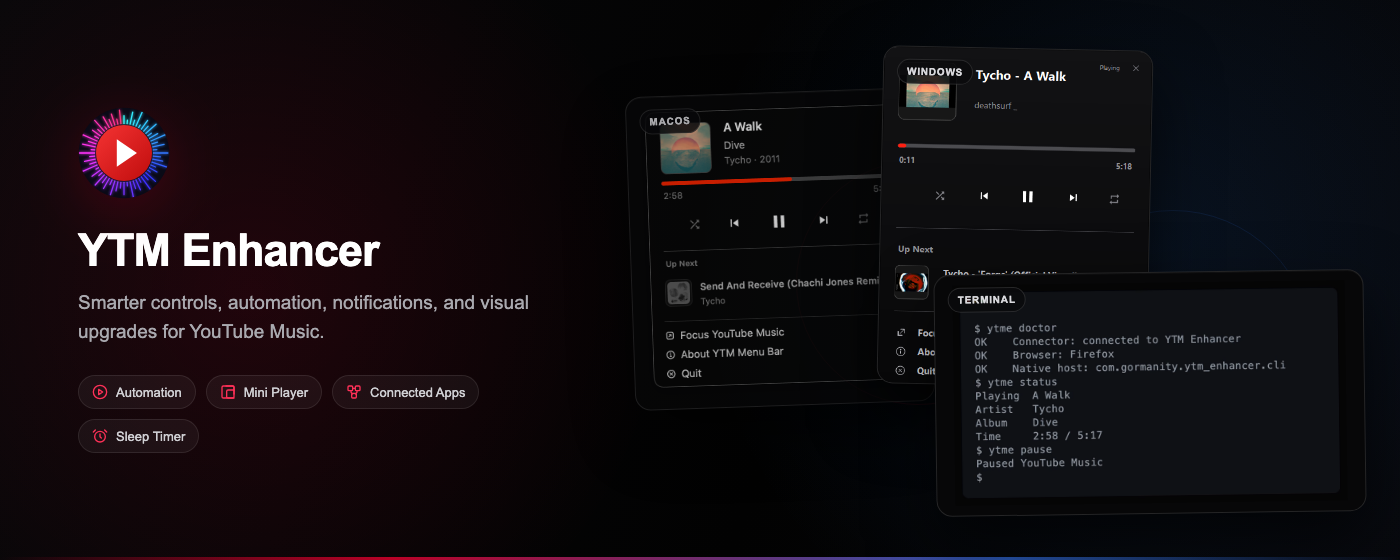
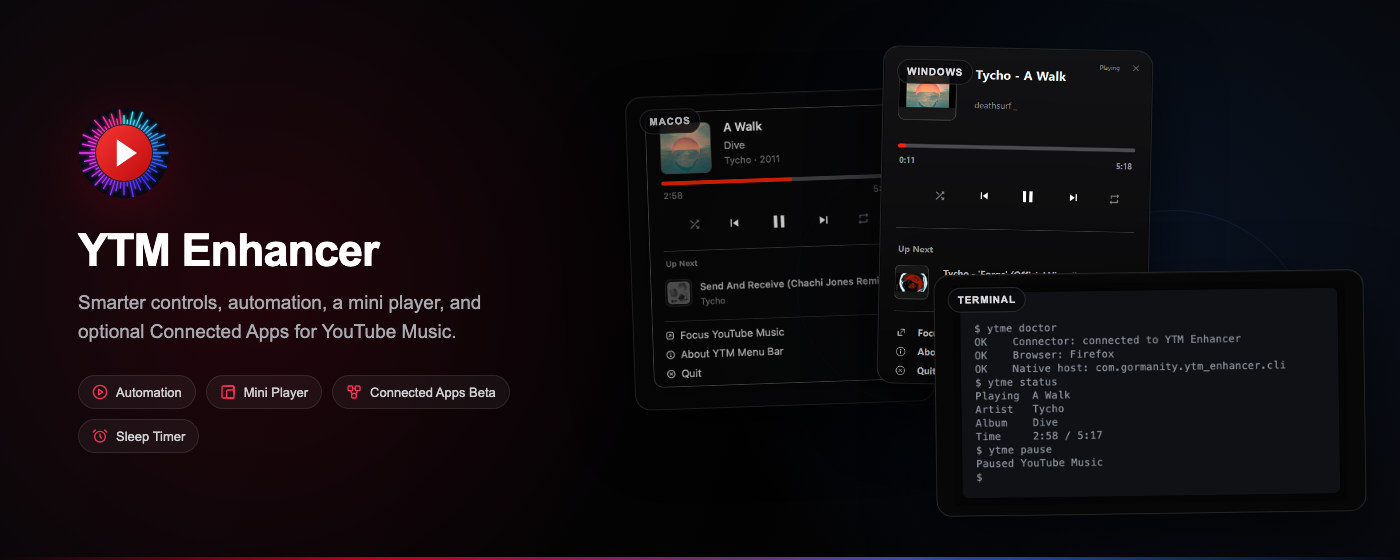
docs(store): strengthen extension marketing copy

Changed region(s): [[0.0614, 0.5161, 0.3993, 0.6071], [0.3379, 0.6982, 0.3686, 0.7286]]

diff --git a/tests/store/store-assets.test.ts b/tests/store/store-assets.test.ts
@@ -23,6 +23,32 @@ function normalizedText(element: Element): string {
 }
 
 describe("store assets", () => {
+  it("leads with concrete benefits and labels Connected Apps as beta", () => {
+    const storeCopy = read("store/STORE.md");
+    const expectedDescription =
+      "Upgrade YouTube Music with smarter controls, automation, a mini player, and optional Connected Apps (Beta).";
+    const manifestDescriptions = [
+      "src/manifests/chrome.json",
+      "src/manifests/edge.json",
+      "src/manifests/firefox.json",
+    ].map((path) => {
+      const manifest = JSON.parse(read(path)) as { description: string };
+      return manifest.description;
+    });
+
+    expect(storeCopy).toContain("Make YouTube Music work the way you listen.");
+    expect(storeCopy).toContain("Optional Connected Apps (Beta)");
+    expect(storeCopy).toContain("- Connected Apps (Beta):");
+    expect(storeCopy).toContain("no project-operated backend services");
+    expect(storeCopy).not.toContain("supercharges YouTube Music");
+    expect(storeCopy).not.toContain("best browser-based media player");
+    expect(manifestDescriptions).toEqual([
+      expectedDescription,
+      expectedDescription,
+      expectedDescription,
+    ]);
+  });
+
   it("shows the current popup navigation in the playback screenshot", () => {
     const document = new DOMParser().parseFromString(
       read("store/screenshots/01-playback-controls.html"),
@@ -46,6 +72,7 @@ describe("store assets", () => {
     expect(connectedApps).toContain(
       "Use the macOS menu bar, Windows taskbar, or your terminal.",
     );
+    expect(connectedApps).toContain("Connected Apps Beta");
     expect(connectedApps).toContain("YTM Menu Bar");
     expect(connectedApps).toContain("YTM Tray");
     expect(connectedApps).toContain("YTM Enhancer CLI");
@@ -62,7 +89,7 @@ describe("store assets", () => {
   it("features Connected Apps in the marquee without obsolete navigation", () => {
     const marquee = read("store/screenshots/promo-marquee-1400x560.html");
 
-    expect(marquee).toContain("Connected Apps");
+    expect(marquee).toContain("Connected Apps Beta");
     expect(marquee).toContain("macOS");
     expect(marquee).toContain("Windows");
     expect(marquee).toContain("Terminal");

diff --git a/store/screenshots/promo-marquee-1400x560.html b/store/screenshots/promo-marquee-1400x560.html
@@ -228,8 +228,8 @@
       />
       <h1>YTM Enhancer</h1>
       <p class="tagline">
-        Smarter controls, automation, notifications, and visual upgrades for
-        YouTube Music.
+        Smarter controls, automation, a mini player, and optional Connected Apps
+        for YouTube Music.
       </p>
       <div class="features">
         <div class="feature">
@@ -256,7 +256,7 @@
             <path d="M7.5 10v2.5l2.5 2.5" />
             <path d="M16.5 10v2.5L14 15" />
           </svg>
-          Connected Apps
+          Connected Apps Beta
         </div>
         <div class="feature">
           <svg viewBox="0 0 24 24" aria-hidden="true">
@@ -270,7 +270,7 @@
       </div>
     </section>
 
-    <section class="surfaces" aria-label="Connected Apps">
+    <section class="surfaces" aria-label="Connected Apps Beta">
       <div class="connection one"></div>
       <div class="connection two"></div>
 

diff --git a/tests/docs/connected-apps-disclosure.test.ts b/tests/docs/connected-apps-disclosure.test.ts
@@ -32,7 +32,10 @@ describe("Connected Apps release disclosures", () => {
   it("describes Connected Apps and native messaging in store copy", () => {
     const storeListing = read("store/STORE.md");
 
-    expect(storeListing).toContain("Connected Apps:");
+    expect(storeListing).toContain("Connected Apps (Beta):");
+    expect(storeListing).toContain(
+      "The Connected Apps (Beta) feature is opt-in and disabled by default",
+    );
     expect(storeListing).toContain("##### `nativeMessaging`");
     expect(storeListing).toContain("enabled companion apps on your device");
     expect(storeListing).toContain("#### `tabs` Permission");

diff --git a/store/screenshots/05-connected-apps.html b/store/screenshots/05-connected-apps.html
@@ -3,7 +3,7 @@
   <head>
     <meta charset="utf-8" />
     <meta name="viewport" content="width=1280" />
-    <title>YTM Enhancer — Connected Apps</title>
+    <title>YTM Enhancer — Connected Apps Beta</title>
     <style>
       *,
       *::before,
@@ -275,7 +275,7 @@
           <path d="M7.5 10v2.5l2.5 2.5" />
           <path d="M16.5 10v2.5L14 15" />
         </svg>
-        Connected Apps
+        Connected Apps Beta
       </div>
       <h1>Control YouTube Music without switching windows</h1>
       <p>Use the macOS menu bar, Windows taskbar, or your terminal.</p>

diff --git a/store/STORE.md b/store/STORE.md
@@ -10,28 +10,34 @@ the shared sections unless a browser-specific requirement forces different copy.
 
 ### Detailed Description
 
-YTM Enhancer supercharges YouTube Music to make it the best browser-based media
-player.
+Make YouTube Music work the way you listen. YTM Enhancer adds powerful playback
+controls and thoughtful quality-of-life features directly to the web app, so you
+can keep the service and library you already use.
 
-It upgrades YouTube Music in your browser with smarter controls, automation, and
-visual enhancements, without forcing you into a replacement app or wrapper.
+Control playback across tabs, fine-tune volume, speed, and stream quality, open
+a compact mini player, automate routine actions, and add visualizers,
+notifications, hotkeys, and a sleep timer.
 
-If you love the ubiquity of YouTube Music's service but want a more
-fully-featured listening experience, this extension is for you.
+Optional Connected Apps (Beta) bring now-playing details and playback controls
+to the macOS menu bar, Windows system tray, and terminal. They are disabled by
+default and communicate locally with the extension.
 
 ### Key Features
 
-- Playback Controls: control playback, switch YouTube Music tabs, seek, adjust
-  volume, change speed/quality, and toggle shuffle/repeat from one panel
-- Automation: optionally start playback automatically and skip disliked tracks
-- Audio Visualizer: configurable visualizer overlays
-- Connected Apps: see what's playing and control YouTube Music from the macOS
-  menu bar, Windows taskbar, or terminal
-- Hotkeys: playback, tab focus, and module action shortcuts
-- Mini Player: compact extension Picture-in-Picture control window while
-  multitasking
-- Notifications: track-change and playback-resumed desktop notifications
-- Sleep Timer: stop playback by duration or clock time
+- Playback Controls: control playback across YouTube Music tabs, seek, fine-tune
+  volume, speed, and quality, and manage shuffle/repeat
+- Automation: start playback automatically and skip disliked tracks when enabled
+- Audio Visualizer: add configurable visualizer overlays to the YouTube Music
+  player
+- Connected Apps (Beta): see what's playing and control YouTube Music from the
+  macOS menu bar, Windows system tray, or terminal
+- Hotkeys: control playback and trigger extension actions without opening the
+  popup
+- Mini Player: keep playback controls in a compact Picture-in-Picture window
+  while multitasking
+- Notifications: get optional desktop updates for track changes and
+  playback-resumed reminders
+- Sleep Timer: stop playback after a duration or at a chosen time
 
 ### Open Source and Privacy Positioning
 
@@ -39,7 +45,7 @@ YTM Enhancer is open source and private by design:
 
 - no analytics
 - no tracking
-- no external backend services
+- no project-operated backend services
 
 Repository: `https://github.com/gormanity/ytm-enhancer`
 
@@ -71,10 +77,10 @@ Public URL: `https://github.com/gormanity/ytm-enhancer/blob/main/PRIVACY.md`
 
 ### Single Purpose Statement
 
-YTM Enhancer enhances the YouTube Music web app on `music.youtube.com` by adding
-optional playback controls, tab switching, automation, notifications, keyboard
-shortcuts, Picture-in-Picture controls, interface improvements, and opt-in local
-playback integration with enabled companion apps on your device.
+YTM Enhancer enhances the YouTube Music web app on `music.youtube.com` with
+optional playback controls, automation, notifications, keyboard shortcuts,
+Picture-in-Picture controls, interface improvements, and local playback
+integration through the opt-in Connected Apps (Beta) feature.
 
 ---
 
@@ -99,9 +105,9 @@ playback integration with enabled companion apps on your device.
 #### Single Purpose Description
 
 YTM Enhancer enhances the YouTube Music web app on `music.youtube.com` with
-optional playback controls, tab switching, automation, notifications, keyboard
-shortcuts, Picture-in-Picture controls, interface improvements, and opt-in local
-playback integration with enabled companion apps on your device.
+optional playback controls, automation, notifications, keyboard shortcuts,
+Picture-in-Picture controls, interface improvements, and local playback
+integration through the opt-in Connected Apps (Beta) feature.
 
 #### Permission Justification
 
@@ -122,10 +128,11 @@ reminders, and the "remind me" shortcut.
 
 ##### `nativeMessaging`
 
-Used only when Connected Apps is enabled to exchange playback state, track
-metadata, and user-requested playback or tab-focus commands with enabled
-companion apps on your device. Native messaging is local communication between
-the browser and app and does not route data through project-operated servers.
+Used only when the optional Connected Apps (Beta) feature is enabled to exchange
+playback state, track metadata, and user-requested playback or tab-focus
+commands with enabled companion apps on your device. Native messaging is local
+communication between the browser and app and does not route data through
+project-operated servers.
 
 ##### `scripting`
 
@@ -217,14 +224,15 @@ YouTube Music web app in-page.
 ### Reviewer Verification
 
 - Open YouTube Music in a tab before testing the popup or features.
-- Connected Apps is opt-in. Its native messaging permission supports the YTM
-  Menu Bar, YTM Tray, and YTM Enhancer CLI companion apps on the user's device.
+- The Connected Apps (Beta) feature is opt-in and disabled by default. Its
+  native messaging permission supports the YTM Menu Bar, YTM Tray, and YTM
+  Enhancer CLI companion apps on the user's device.
 - Firefox's `tabs` permission is used only to find, select, open, or focus
   YouTube Music tabs in response to extension and Connected Apps controls.
 - Some features are browser-dependent by design.
 - In Firefox, Chromium-only Picture-in-Picture capabilities are not available,
   and the extension degrades gracefully.
-- The add-on does not use remote code, external services, analytics, or
+- The add-on does not use remote code, project-operated services, analytics, or
   tracking.
 - No extension-specific accounts, authentication, or test credentials are
   required.
